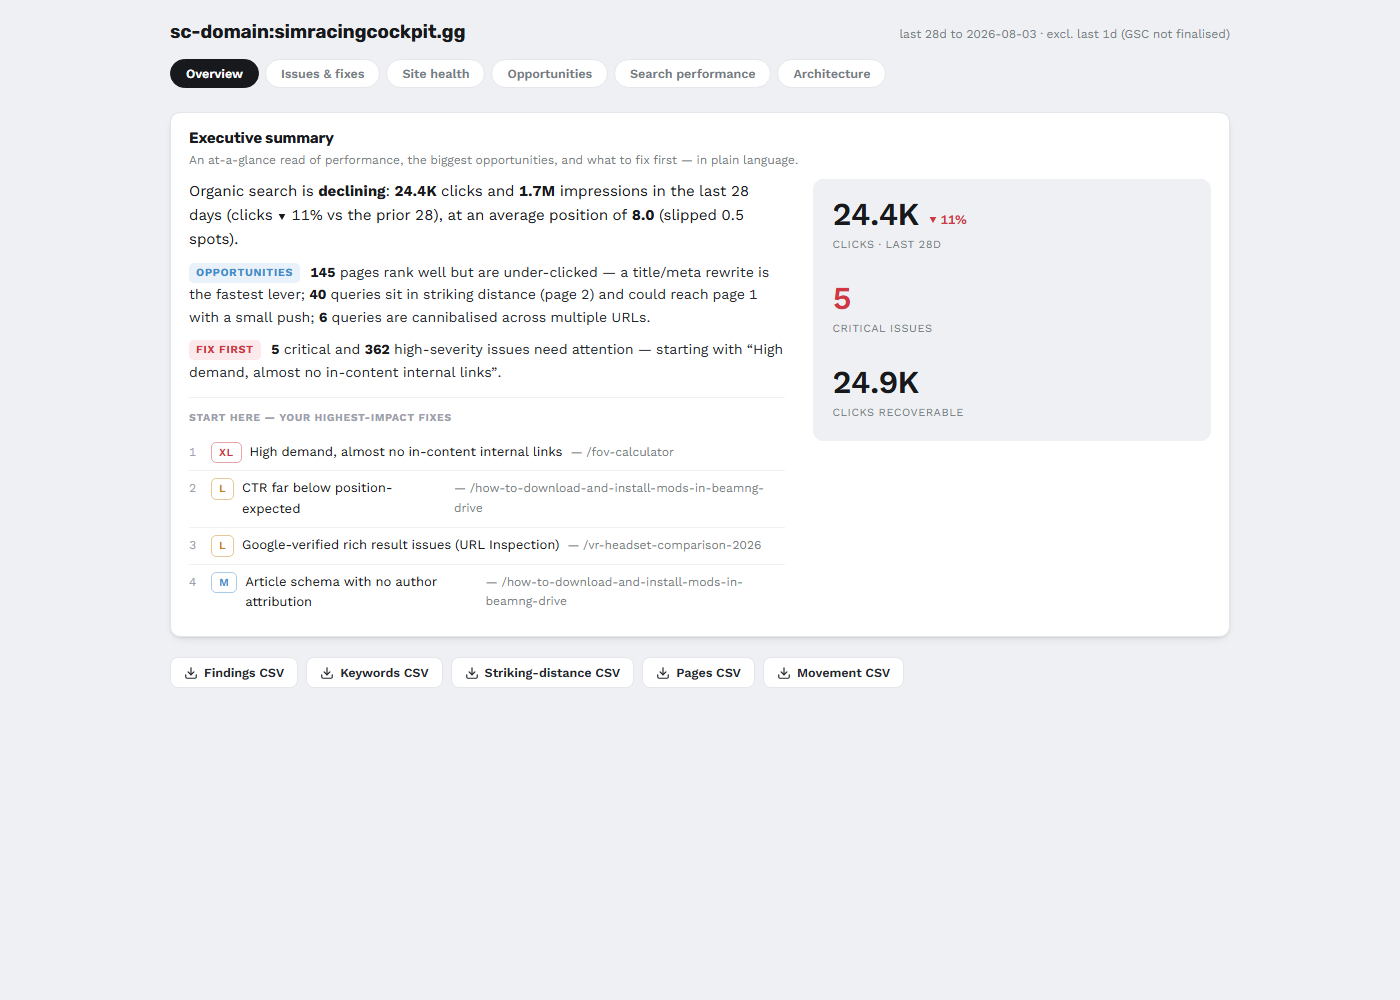
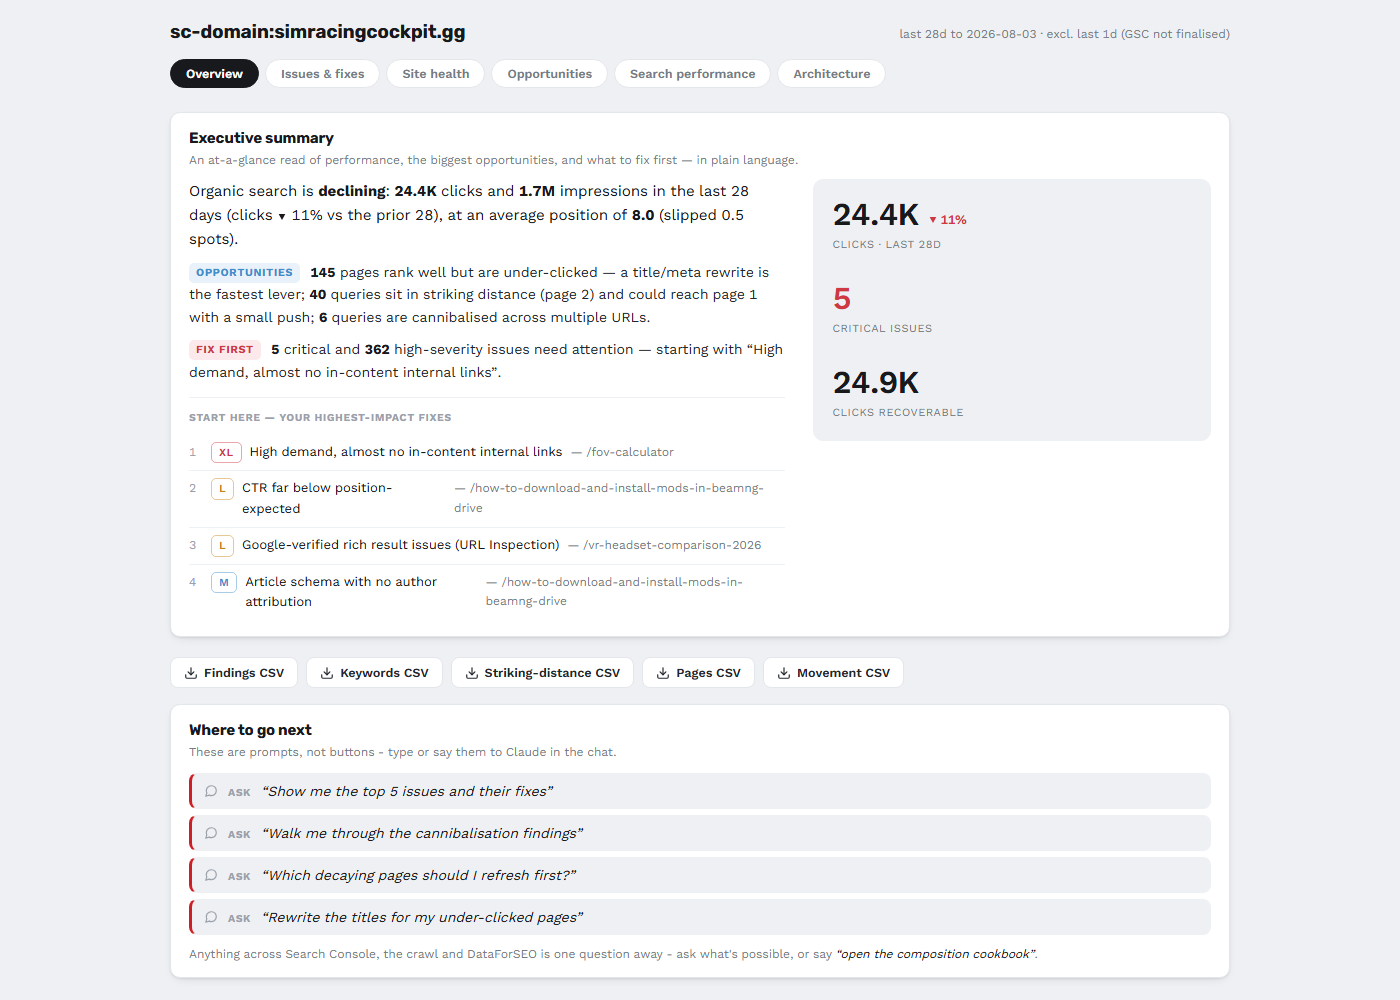
Widget mode: replace CSV buttons with 'Where to go next' prompts; harden chart init
The CSV export buttons in the MCP-App widget were silent and misleading:
downloads are sandbox-blocked, and the old fallback's first branch awaited
app.downloadFile() under the SDK's default 60-second request timeout - when
the host advertises ui/download-file but never completes the request, the
await outlives the user's attention and neither the success nor the fallback
toast ever fires (the toast itself renders fine - fixed-position, z-index
9999, verified in a full host-protocol simulation). Every other path toasts
immediately, so the hung host call is the silent one.

Design change, two modes:
- Widget (app.callServerTool path): CSV buttons removed entirely. In their
  place, a data-conditional "Where to go next" card - up to four prioritised
  prompt suggestions derived from the loaded payload (findings, cannibalisation,
  content decay, under-clicked titles, agent readiness, DataForSEO absence,
  passage scoring), rendered as quoted things to say to Claude (chat glyph +
  ASK + italic quote, deliberately not button-shaped), plus the standing
  "one question away / composition cookbook" footer.
- Standalone export (__DASH_FIXTURE__): CSV buttons kept (blob downloads work
  in a real browser, now with a success toast) and the suggestions card shows
  beneath them for readers of a shared report.

Widget-render hardening (owner also saw no charts render in the live widget):
EChartWrapper now defers echarts.init while its container has no layout
[…]

diff --git a/src/ui/dashboard.ts b/src/ui/dashboard.ts
@@ -1,6 +1,6 @@
 import { App, applyDocumentTheme, applyHostStyleVariables } from '@modelcontextprotocol/ext-apps';
 import {
-  esc, fmtNum, icons, sevBadge, statusBadge, badge, kpiGrid, filterGroup,
+  esc, fmtNum, icons, sevBadge, statusBadge, badge, kpiGrid, filterGroup, card,
   attachSort, formatTrend, accordionItem, accordionSection, accordionControls,
   EChartWrapper, chartPalette, axisDefaults, tooltipDefaults, emptyState,
 } from './lib/index.js';
@@ -28,6 +28,10 @@ interface DashboardData {
   keywordMovement?: { query: string; firstPos: number; lastPos: number; delta: number; firstDate: string; lastDate: string; category: string }[];
   findings?: { runId: string; total: number; finishedAt: string | null; byCheck: any[]; top: any[]; recommendations?: any[] } | null;
   topLinkedPages?: { url: string; inlinks: number; status: number | null; indexable: boolean; reason: string | null }[];
+  templateMismatch?: { template: string; iprPct: number; trafficPct: number }[];
+  equityScatter?: { x: number; y: number; t: string }[];
+  cannibalisation?: { query: string; urls: { url: string; points: { week: string; position: number }[] }[] }[];
+  agentReadiness?: { score: number; level: string; byCategory: { category: string; passed: number; total: number }[]; checks: { label: string; present: boolean; detail?: string; fix: string }[] };
   crawlHealth?: {
     responseCodes: { label: string; count: number }[];
     indexability: { label: string; count: number }[];
@@ -95,57 +99,19 @@ function toast(msg: string, kind: 'ok' | 'warn' = 'ok'): void {
   setTimeout(() => t.remove(), 4200);
 }
 
-/** Copy text in a sandboxed iframe: clipboard API where allowed, else a hidden-textarea execCommand. */
-async function copyText(text: string): Promise<boolean> {
-  try {
-    if (navigator.clipboard?.writeText) { await navigator.clipboard.writeText(text); return true; }
-  } catch { /* fall through to execCommand */ }
-  try {
-    const ta = document.createElement('textarea');
-    ta.value = text;
-    ta.style.cssText = 'position:fixed;top:-9999px;left:-9999px;';
-    document.body.appendChild(ta);
-    ta.select();
-    const ok = document.execCommand('copy');
-    ta.remove();
-    return ok;
-  } catch { return false; }
-}
-
-// Direct <a download> blob clicks are blocked inside MCP-App sandboxed iframes — that's why the
-// host exposes ui/download-file. We use it only when the host advertises the capability; otherwise
-// we fall back to copying the CSV to the clipboard, and we always surface the outcome via a toast.
-async function downloadCsv(filename: string, rows: unknown[][]): Promise<void> {
-  const csv = toCsv(rows);
-
-  // Standalone export (opened directly in a browser, not an MCP host): a normal blob download works.
-  if ((window as any).__DASH_FIXTURE__) {
-    const a = document.createElement('a');
-    a.href = URL.createObjectURL(new Blob([csv], { type: 'text/csv' }));
-    a.download = filename;
-    a.click();
-    URL.revokeObjectURL(a.href);
-    return;
-  }
-
-  // In an MCP host: only call downloadFile if the host says it supports it.
-  if (app.getHostCapabilities()?.downloadFile) {
-    try {
-      const r = await app.downloadFile({
-        contents: [{ type: 'resource', resource: { uri: `file:///${filename}`, mimeType: 'text/csv', text: csv } }],
-      });
-      if (!r?.isError) { toast(`Saved ${filename}`); return; }
-    } catch (e) { console.warn('downloadFile failed', e); }
-    // denied / cancelled / threw → fall through to clipboard so the data isn't lost
-  }
-
-  const copied = await copyText(csv);
-  toast(
-    copied
-      ? `This host can't save files — ${filename} copied to clipboard (paste into a .csv)`
-      : `This host can't save files and clipboard is blocked — use “Export report” for a downloadable file`,
-    'warn',
-  );
+// CSV download — STANDALONE EXPORT ONLY (__DASH_FIXTURE__): a normal blob <a download> works
+// in a real browser. The widget path was removed deliberately: inside the MCP-App sandbox
+// downloads are blocked, and the old fallback's first branch awaited app.downloadFile() with
+// the SDK's default 60-second request timeout — when the host advertised ui/download-file but
+// never completed the request, the await sat silently past the user's attention span, so no
+// toast appeared and the button read as dead. Widget mode now shows prompt suggestions instead.
+function downloadCsv(filename: string, rows: unknown[][]): void {
+  const a = document.createElement('a');
+  a.href = URL.createObjectURL(new Blob([toCsv(rows)], { type: 'text/csv' }));
+  a.download = filename;
+  a.click();
+  URL.revokeObjectURL(a.href);
+  toast(`Saved ${filename}`);
 }
 
 let currentData: DashboardData | null = null;
@@ -948,9 +914,44 @@ function setupTabs(): void {
   });
 }
 
+// "Where to go next" — data-conditional prompt suggestions. These are things to TYPE or SAY
+// to Claude (not buttons): everything in the database is one question away, and the card
+// points at whichever composition the loaded payload says is most valuable right now.
+function nextStepSuggestions(data: DashboardData): string[] {
+  const s: string[] = [];
+  const site = data.siteUrl;
+  if (data.findings?.top?.length) s.push('Show me the top 5 issues and their fixes');
+  else s.push(`Run an audit on ${site}`);
+  if (data.cannibalisationTable?.length) s.push('Walk me through the cannibalisation findings');
+  if (data.contentDecay?.length) s.push('Which decaying pages should I refresh first?');
+  if ((data.quickWins ?? []).some(q => q.type === 'snippet' && q.potential > 0)) s.push('Rewrite the titles for my under-clicked pages');
+  if (!data.agentReadiness) s.push(`Check the agent readiness of ${site}`);
+  if (!data.rankHistory?.length) s.push(`What do my competitors rank for that I don't?`);
+  if (data.crawlHealth?.totalPages) s.push(`Score the passages on ${site} and show me pages with no extractable answer`);
+  return s.slice(0, 4);
+}
+
+function renderNextSteps(data: DashboardData): void {
+  const el = document.getElementById('nextSteps'); if (!el) return;
+  const rows = nextStepSuggestions(data).map(t =>
+    `<div class="suggest-row"><span class="suggest-icon">${icons.chat}</span><span class="suggest-ask">Ask</span><span class="suggest-quote">“${esc(t)}”</span></div>`,
+  ).join('');
+  const footer = `<div class="suggest-footer">Anything across Search Console, the crawl and DataForSEO is one question away - ask what's possible, or say <span class="suggest-quote">“open the composition cookbook”</span>.</div>`;
+  el.innerHTML = card({
+    id: 'nextStepsCard',
+    title: 'Where to go next',
+    hint: 'These are prompts, not buttons - type or say them to Claude in the chat.',
+    bodyHtml: `<div class="suggest-list">${rows}</div>${footer}`,
+  });
+}
+
 function buildExportBar(data: DashboardData): void {
   const bar = $('exportbar');
   bar.innerHTML = '';
+  // Widget mode (MCP-App host): downloads are sandbox-blocked, so no CSV buttons —
+  // the "Where to go next" card takes this slot. Standalone export keeps both.
+  renderNextSteps(data);
+  if (!(window as any).__DASH_FIXTURE__) return;
   const mk = (label: string, fn: () => void): void => {
     const b = document.createElement('button');
     b.className = 'btn';

diff --git a/src/ui/lib/echart.ts b/src/ui/lib/echart.ts
@@ -72,26 +72,43 @@ export class EChartWrapper {
   private ro: ResizeObserver | null = null;
   private el: HTMLElement;
   private group?: string;
+  private pending: echarts.EChartsCoreOption | null = null;
+  private handlers = new Map<string, (p: any) => void>();
 
   constructor(elOrId: string | HTMLElement, opts: { group?: string } = {}) {
     this.el = typeof elOrId === 'string' ? document.getElementById(elOrId)! : elOrId;
     this.group = opts.group;
   }
 
-  /** (Re)build the chart with a full option. Re-init keeps theme-change simple. */
+  /**
+   * (Re)build the chart with a full option. Re-init keeps theme-change simple.
+   * Zero-size guard: in an MCP-App iframe the container can have no layout yet
+   * (hidden tab, or the host hasn't sized the widget) — echarts.init would bake
+   * in 0×0. Defer the option until the ResizeObserver reports real dimensions.
+   */
   setOption(option: echarts.EChartsCoreOption): void {
+    if (!this.ro) {
+      this.ro = new ResizeObserver(() => this.onResize());
+      this.ro.observe(this.el);
+    }
+    if (!this.el.clientWidth || !this.el.clientHeight) {
+      this.pending = option;
+      this.chart?.dispose();
+      this.chart = null;
+      return;
+    }
+    this.pending = null;
     this.chart?.dispose();
     this.chart = echarts.init(this.el);
     this.chart.setOption(option);
+    for (const [ev, fn] of this.handlers) { this.chart.on(ev, fn); }
     if (this.group) {
       this.chart.group = this.group;
       echarts.connect(this.group); // crosshair/tooltip sync across the stack
     }
-    if (!this.ro) {
-      this.ro = new ResizeObserver(() => this.resizeIfVisible());
-      this.ro.observe(this.el);
-    }
   }
+
+  private onResize(): void { this.resizeIfVisible(); }
 
   /** Centered muted message for the no-data case (chart canvas kept for layout). */
   setEmpty(text: string, col: ChartPalette): void {
@@ -100,12 +117,18 @@ export class EChartWrapper {
     });
   }
 
+  /** Handlers survive deferred init and theme re-init — stored and re-applied. */
   on(event: string, handler: (p: any) => void): void {
+    this.handlers.set(event, handler);
     this.chart?.off(event);
     this.chart?.on(event, handler);
   }
 
   resizeIfVisible(): void {
+    if (this.pending && this.el.clientWidth && this.el.clientHeight) {
+      this.setOption(this.pending); // container finally has layout — build for real
+      return;
+    }
     try {
       if (this.chart && (this.el as HTMLElement).offsetParent !== null) this.chart.resize();
     } catch { /* disposed */ }
@@ -114,5 +137,6 @@ export class EChartWrapper {
   dispose(): void {
     this.ro?.disconnect(); this.ro = null;
     this.chart?.dispose(); this.chart = null;
+    this.pending = null; this.handlers.clear();
   }
 }

diff --git a/src/ui/styles.css b/src/ui/styles.css
@@ -89,6 +89,21 @@ body {
 
 /* Buttons — pricemonitor .btn */
 .exportbar { display: flex; gap: 8px; flex-wrap: wrap; margin-bottom: var(--space-standard-2); }
+.exportbar:empty { display: none; }
+
+/* "Where to go next" — prompt suggestions (things to SAY to Claude, not buttons):
+ * quote treatment, no button affordance, chat glyph + quoted prompt. */
+.suggest-list { display: flex; flex-direction: column; gap: 6px; margin-top: var(--space-standard-1); }
+.suggest-row {
+  display: flex; align-items: baseline; gap: 10px;
+  padding: 9px 12px; border: 1px solid var(--border-subtle); border-radius: var(--radius-sm);
+  background: var(--bg-inset); border-left: 3px solid var(--accent);
+}
+.suggest-icon { align-self: center; display: inline-flex; color: var(--text-faint); }
+.suggest-ask { font-size: 10.5px; font-weight: 700; text-transform: uppercase; letter-spacing: .06em; color: var(--text-faint); }
+.suggest-quote { font-style: italic; color: var(--text-primary); }
+.suggest-footer { margin-top: 12px; font-size: 12px; color: var(--text-muted); }
+.suggest-footer .suggest-quote { font-size: 12px; }
 .btn {
   font-family: var(--font); font-size: 12.5px; font-weight: 600;
   color: var(--text-secondary); background: var(--bg-surface);

diff --git a/src/ui/lib/icons.ts b/src/ui/lib/icons.ts
@@ -13,6 +13,7 @@ export const icons = {
   alert: svg('<path d="M10.29 3.86 1.82 18a2 2 0 0 0 1.71 3h16.94a2 2 0 0 0 1.71-3L13.71 3.86a2 2 0 0 0-3.42 0z"/><line x1="12" y1="9" x2="12" y2="13"/><line x1="12" y1="17" x2="12.01" y2="17"/>'),
   x: svg('<line x1="18" y1="6" x2="6" y2="18"/><line x1="6" y1="6" x2="18" y2="18"/>'),
   info: svg('<circle cx="12" cy="12" r="10"/><line x1="12" y1="16" x2="12" y2="12"/><line x1="12" y1="8" x2="12.01" y2="8"/>'),
+  chat: svg('<path d="M21 11.5a8.38 8.38 0 0 1-.9 3.8 8.5 8.5 0 0 1-7.6 4.7 8.38 8.38 0 0 1-3.8-.9L3 21l1.9-5.7a8.38 8.38 0 0 1-.9-3.8 8.5 8.5 0 0 1 4.7-7.6 8.38 8.38 0 0 1 3.8-.9h.5a8.48 8.48 0 0 1 8 8v.5z"/>'),
 } as const;
 
 export type IconName = keyof typeof icons;

diff --git a/src/ui/dashboard.html b/src/ui/dashboard.html
@@ -30,6 +30,7 @@
           <div id="execSummary"></div>
         </div>
         <div class="exportbar" id="exportbar"></div>
+        <div id="nextSteps"></div>
       </section>
 
       <section class="tab-panel" data-panel="issues" role="tabpanel">

diff --git a/manual/dashboard.md b/manual/dashboard.md
@@ -10,7 +10,7 @@ Run `refresh_property` first, and `run_audit` if you want the findings populated
 
 ![The Overview tab - executive summary, critical issues, recoverable clicks](../assets/dashboard-overview.png)
 
-The executive summary: clicks and impressions for the last 28 days against the prior period, the headline finding counts, and the top issues by impact. It's the tab you'd screenshot for a stakeholder - the state of the property in one screen.
+The executive summary: clicks and impressions for the last 28 days against the prior period, the headline finding counts, and the top issues by impact. It's the tab you'd screenshot for a stakeholder - the state of the property in one screen. Beneath it sits a "Where to go next" card: suggested questions chosen from what your data actually contains, written as prompts to type or say to Claude rather than buttons. In the chat widget this card replaces the CSV export buttons, because the widget's sandbox blocks file downloads; the exported report keeps the CSV buttons and shows the suggestions underneath them.
 
 ## Issues & fixes
 
